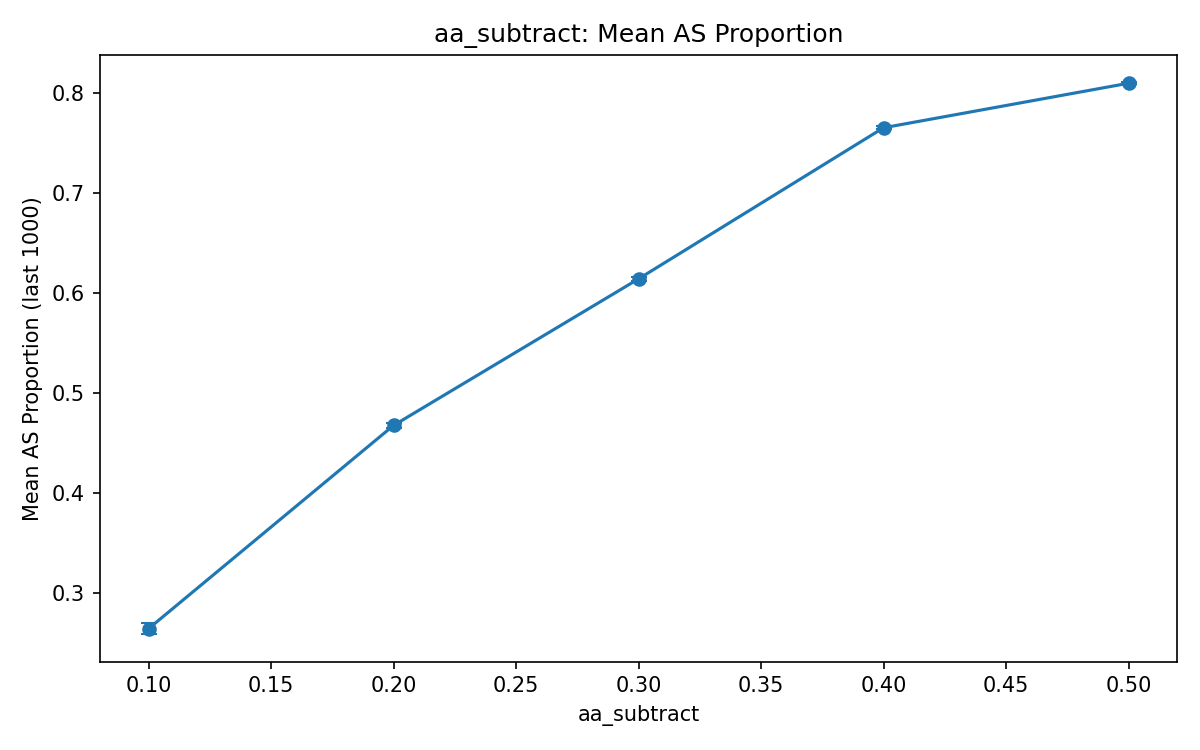
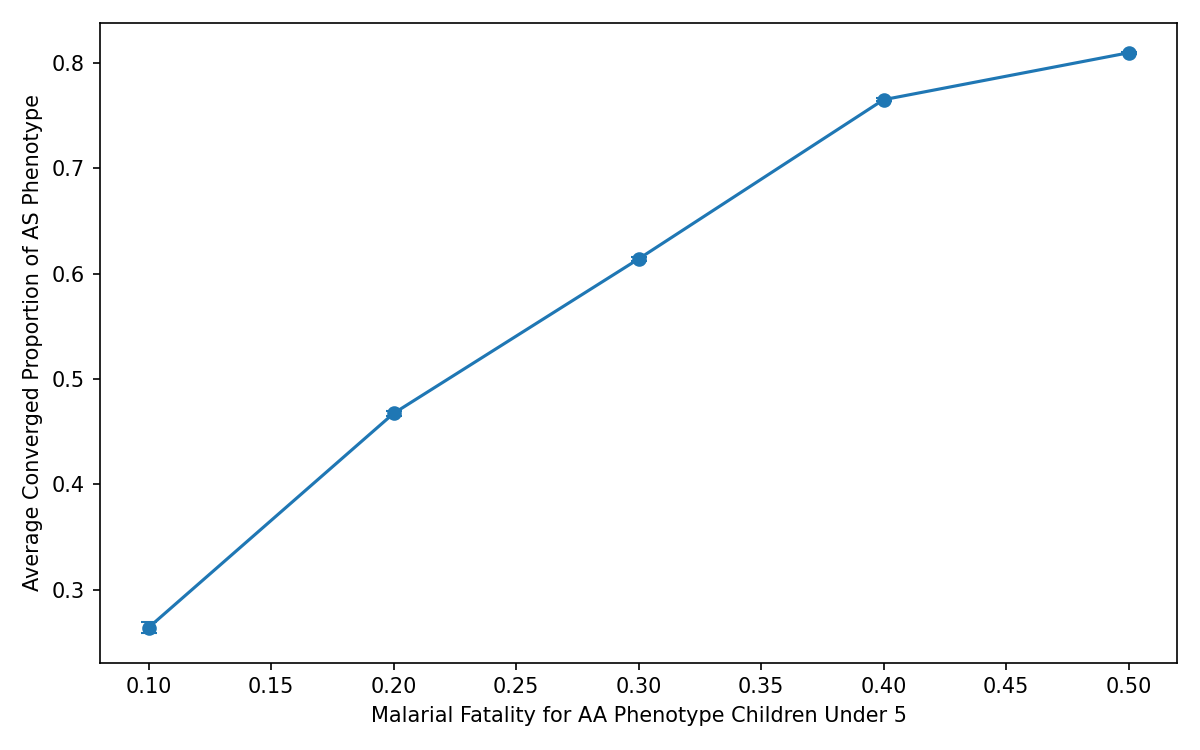
Code to update Plots

diff --git a/Plot.py b/Plot.py
@@ -1,0 +1,105 @@
+import os
+import json
+
+import pandas as pd
+import matplotlib.pyplot as plt
+
+SUMMARY_WINDOW = 1000
+RESULTS_ROOT = "MultiTrialResults"
+
+PLOT_LABELS = {
+    "initial_pop": "Initial Population Size",
+    "as_fraction": "Initial AS Phenotype Proportion",
+    "life_expectancy": "Baseline Life Expectancy",
+    "as_subtract": "Malarial Fatality for AS Phenotype Children Under 5",
+    "aa_subtract": "Malarial Fatality for AA Phenotype Children Under 5",
+}
+# ------------------------------------------
+
+
+MEAN_Y_LABEL = "Average Converged Proportion of AS Phenotype"
+SD_Y_LABEL = "Standard Deviation of Converged AS Phenotype Proportion"
+
+
+def get_xlabel(variable_name):
+    return PLOT_LABELS.get(variable_name, variable_name)
+
+
+def plot_ablation_summary(results_df, variable_name, output_dir):
+    x = results_df["value"]
+    xlabel = get_xlabel(variable_name)
+
+    # ---- Mean plot ----
+    fig, ax = plt.subplots(figsize=(8, 5))
+    ax.errorbar(
+        x,
+        results_df["mean_average_as_prop"],
+        yerr=results_df["sd_average_as_prop"],
+        marker="o",
+        capsize=4,
+    )
+    ax.set_xlabel(xlabel)
+    ax.set_ylabel(MEAN_Y_LABEL)
+    plt.tight_layout()
+    plt.savefig(os.path.join(output_dir, f"{variable_name}_mean_as.png"), dpi=150)
+    plt.close()
+
+    # ---- Stability plot ----
+    fig, ax = plt.subplots(figsize=(8, 5))
+    ax.errorbar(
+        x,
+        results_df["mean_sd_as_prop"],
+        yerr=results_df["sd_sd_as_prop"],
+        marker="o",
+        capsize=4,
+    )
+    ax.set_xlabel(xlabel)
+    ax.set_ylabel(SD_Y_LABEL)
+    plt.tight_layout()
+    plt.savefig(os.path.join(output_dir, f"{variable_name}_genotypic_stability.png"), dpi=150)
+    plt.close()
+
+
+def regenerate_plots(results_root=RESULTS_ROOT):
+    if not os.path.isdir(results_root):
+        raise FileNotFoundError(f"Results folder not found: {results_root}")
+
+    for entry in os.listdir(results_root):
+        ablation_dir = os.path.join(results_root, entry)
+        if not os.path.isdir(ablation_dir):
+            continue
+        if entry == "baseline":
+            continue
+
+        summary_json = os.path.join(ablation_dir, f"{entry}_summary.json")
+        if not os.path.exists(summary_json):
+            print(f"Skipping {entry}: no summary json found")
+            continue
+
+        with open(summary_json, "r") as f:
+            summary_rows = json.load(f)
+
+        if not summary_rows:
+            print(f"Skipping {entry}: summary json is empty")
+            continue
+
+        df = pd.DataFrame(summary_rows)
+
+        required_cols = {
+            "value",
+            "mean_average_as_prop",
+            "sd_average_as_prop",
+            "mean_sd_as_prop",
+            "sd_sd_as_prop",
+        }
+        missing = required_cols - set(df.columns)
+        if missing:
+            print(f"Skipping {entry}: missing columns {sorted(missing)}")
+            continue
+
+        plot_ablation_summary(df, entry, ablation_dir)
+        print(f"Regenerated plots for {entry}")
+
+
+if __name__ == "__main__":
+    regenerate_plots()
